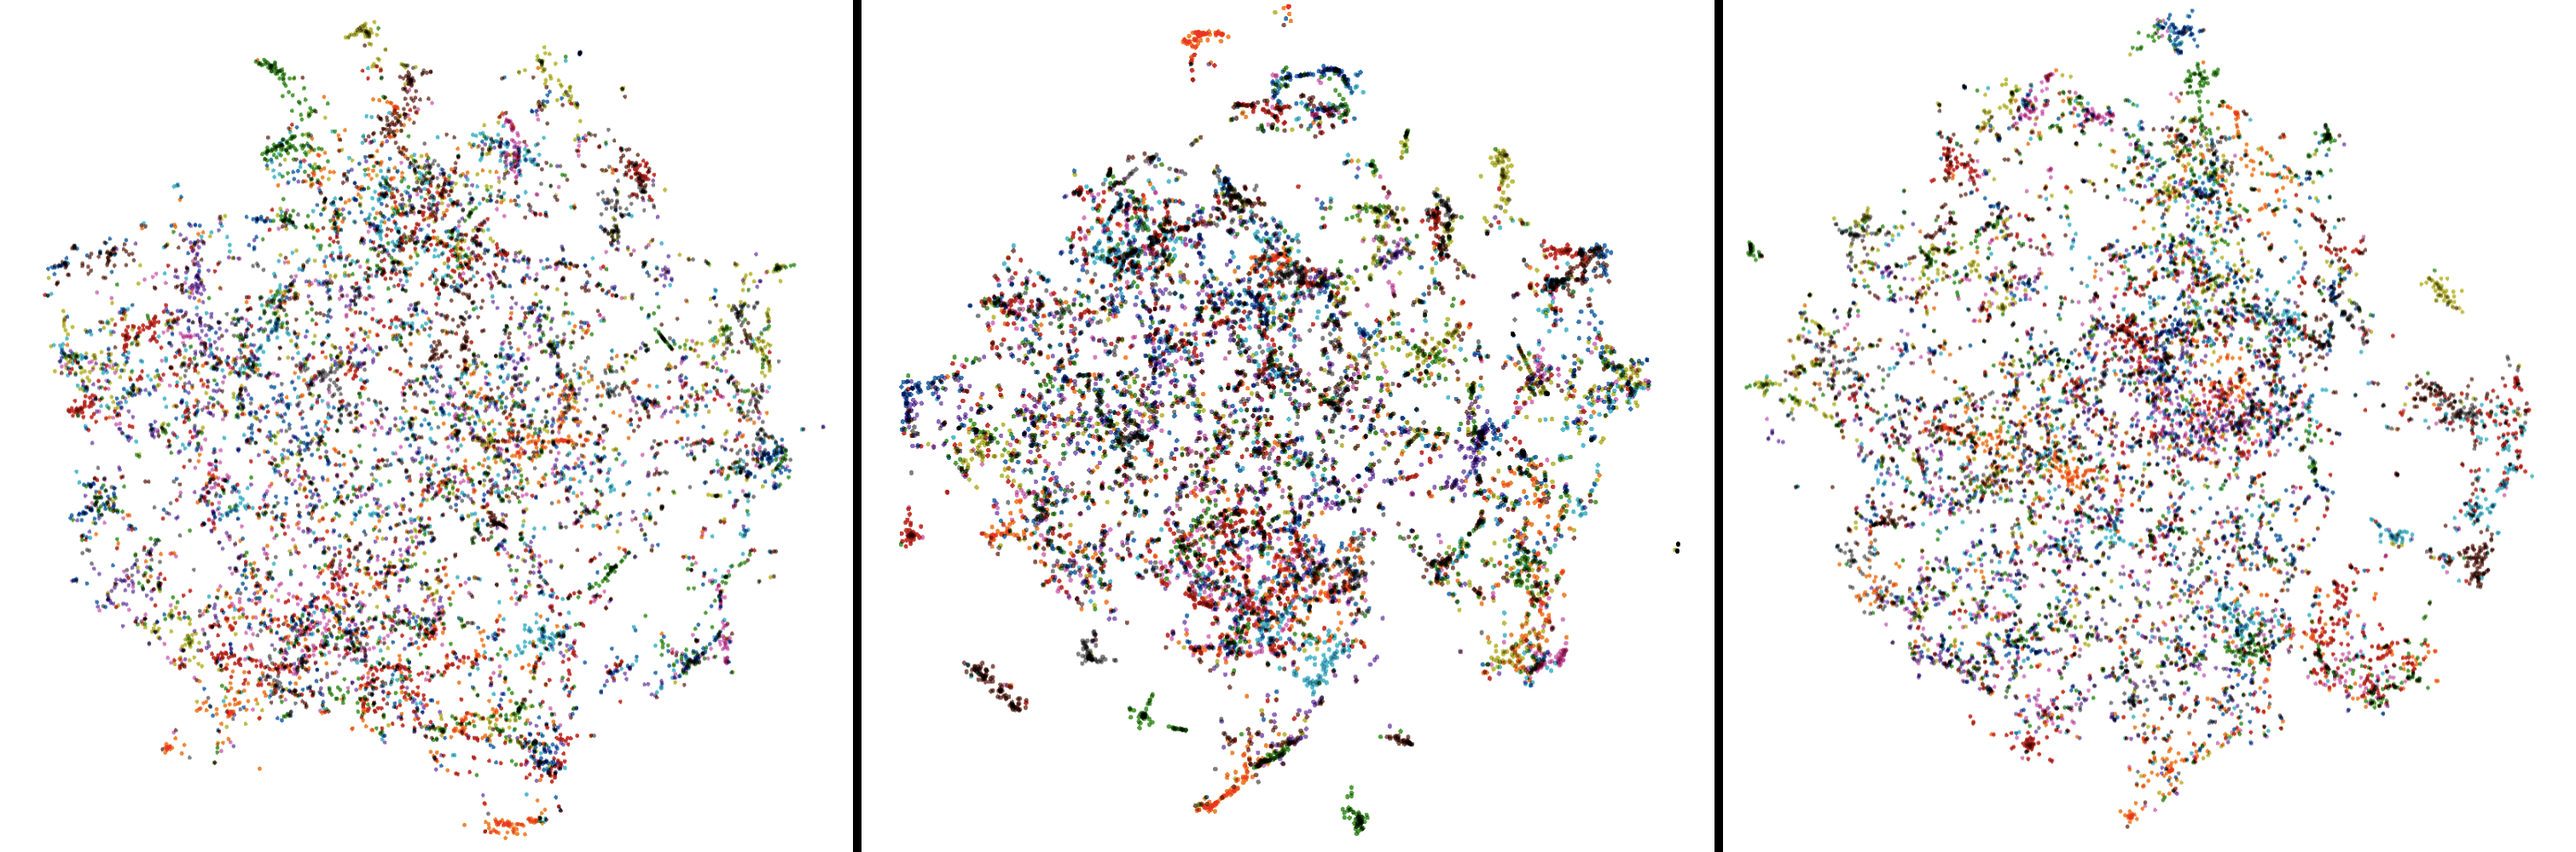
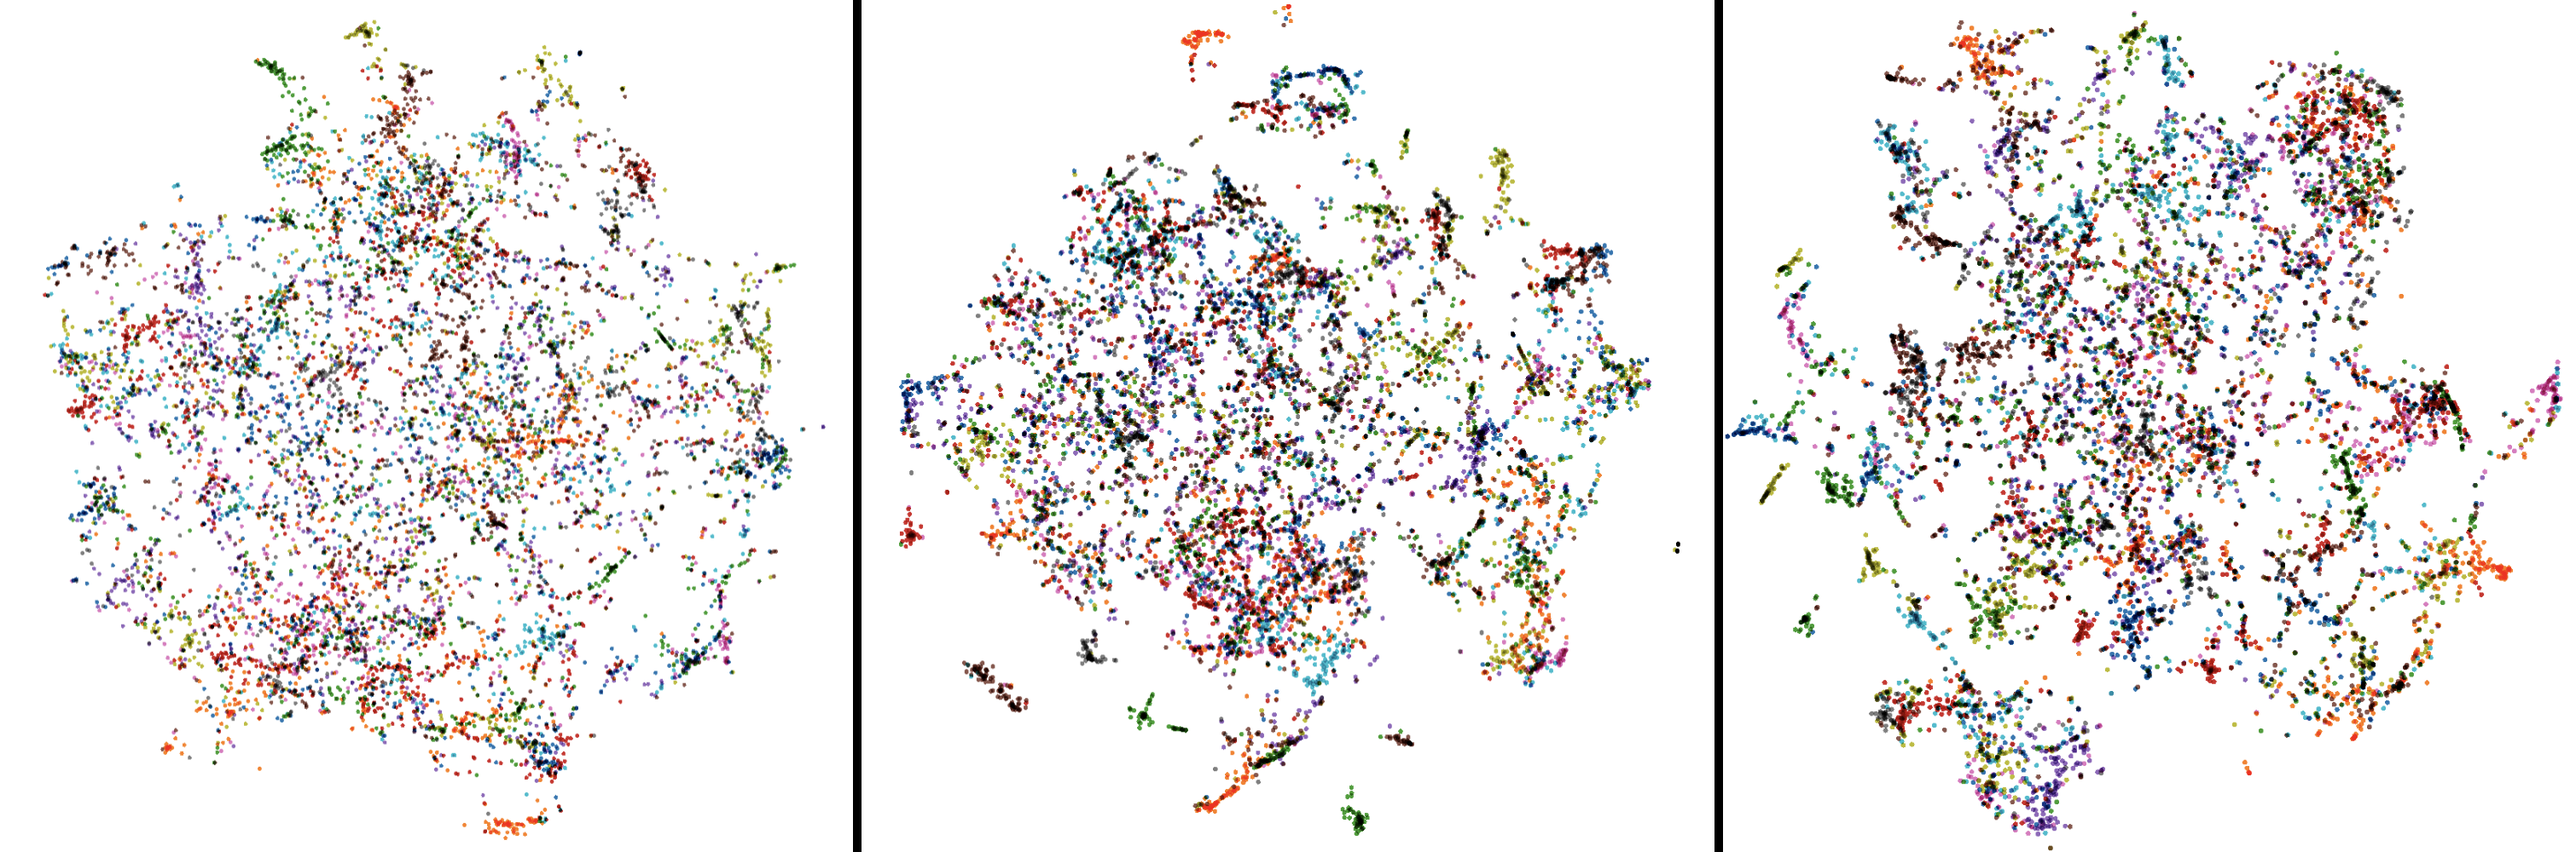
change the visualization plot

Changed region(s): [[0.6536, 0.031, 0.996, 0.992]]

diff --git a/run.py b/run.py
@@ -99,9 +99,14 @@ class ContrastiveLearning(object):
 		args = self.args
 		if not os.path.exists(os.path.join(args.exp, 'logs')):
 			os.makedirs(os.path.join(args.exp, 'logs'))
-		if not os.path.exists(os.path.join(args.exp, 'runs')):
-			os.makedirs(os.path.join(args.exp, 'runs'))
-		self.writer = SummaryWriter(logdir=os.path.join(self.args.exp, 'runs'))
+		if self.args.embedding:
+			if not os.path.exists(os.path.join(args.exp, 'runs_'+self.args.embedding_layer)):
+				os.makedirs(os.path.join(args.exp, 'runs_'+self.args.embedding_layer))
+			self.writer = SummaryWriter(logdir=os.path.join(self.args.exp, 'runs_'+self.args.embedding_layer))
+		else:
+			if not os.path.exists(os.path.join(args.exp, 'runs')):
+				os.makedirs(os.path.join(args.exp, 'runs'))
+			self.writer = SummaryWriter(logdir=os.path.join(self.args.exp, 'runs'))
 		self.logger = getLogger(args.exp)
 
 	def get_dataloader(self):
@@ -373,7 +378,10 @@ class ContrastiveLearning(object):
 	@torch.no_grad()
 	def inference(self):
 		self.network.eval()
-		points = torch.zeros(len(self.val_dataset), 128).to(self.device).detach()
+		if self.args.embedding_layer == 'fc':
+			points = torch.zeros(len(self.val_dataset), 128).to(self.device).detach()
+		elif self.args.embedding_layer == 'lastconv':
+			points = torch.zeros(len(self.val_dataset), 512).to(self.device).detach()
 		labels = []
 		pointer = 0
 		pbar = tqdm(self.val_loader)

diff --git a/README.md b/README.md
@@ -37,21 +37,41 @@ Loss Curve on ResNet-18 BYOL (left) and ResNet-50 BYOL (right)
 
 #### Embedding Visualization
 
-The T-SNE visualization of features from **FC** layer with **ResNet-18** as backbone, instance discrimination (left, t=0.20) vs BYOL (right, no blur).
+##### ResNet18 FC Comparison.
+The T-SNE visualization of features from **FC** layer with **ResNet-18** as backbone, instance discrimination (left, t=0.20), BYOL (middle, no blur), BYOL_aug+ (right, with blur).
 
-##### ResNet18
 ----------------------
 <img src="img/cmp_embedding_fc_insd_byol_r18.png" alt="" align=center />
+----------------------
 
-##### ResNet18 (aug+)
+
+##### ResNet18 CONV Comparison
+The T-SNE visualization of features from **the last CONV** layer with **ResNet-18** as backbone, instance discrimination (left, t=0.20), BYOL (middle, no blur), BYOL_aug+ (right, with blur).
+
 ---------------------
-<div align=center>
-<div align=center, style="display:inline-block;width:45%"><img src="img/EmbeddingBYOLR18_augplus.png" width = 100% height=100% alt="BYOL loss curve" align=center /> FC Embedding</div>
-<div align=center, style="display:inline-block;width:45%"><img src="img/EmbeddingLASTCONV_BYOLR18_augplus.png" width = 100% height=100% alt="BYOL loss curve" align=center /> CONV Embedding</div>
-</div>
+<img src="img/cmp_embedding_conv_insd_byol_r18.png" alt="" align=center />
 
+### Ablation
+#### Effect of BatchNormalization
 
+BYOL is hightly dependent on the batch normalization, we examine it with the following settings: 
 
+1. take out the BN in MLP head projection.
+2. take out the BN in Backbone architechutre.
+3. take out both.
+
+**Default Setting**: Except for the above three variants, all other settings are identical: with BYOL aug+, ResNet-18. The default t-SNE is calculated on the output of the last convolutional layer.
+
+|Setting|Results|
+|----|----|
+|Baseline|62.74|
+|No MLP projection|50.67|
+
+Comparison of with or without MLPBN, using the above **Default Setting**, we visulaize the t-SNE, with MLPBN (left), without MLPBN(right).
+
+----------------------
+<img src="img/cmp_r18womlpbn_lastconv.png" alt="" align=center />
+----------------------
 
 
 
